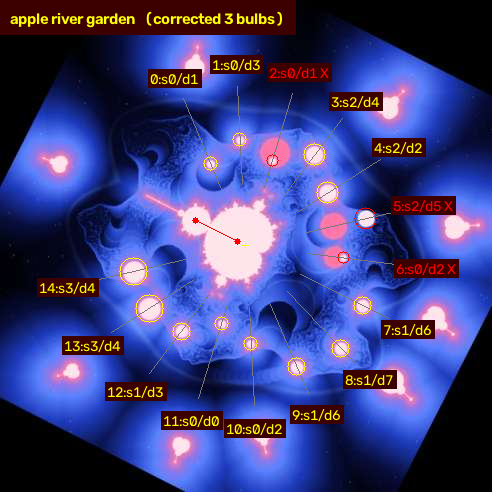
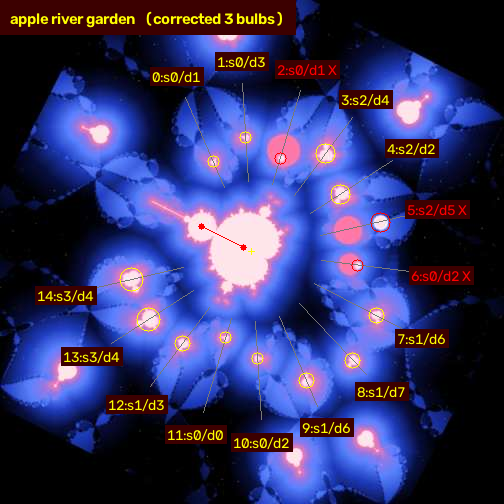
Baby Mandelbrots carry the data instead of discs
Each of the 15 satellites is now a real iterated Mandelbrot silhouette
(randomly rotated). The decoder reads the area-equivalent radius (4 levels,
2.5x apart in area) and the centroid orbit radius (8 levels); both are
rotation-independent. Spacing widened so neighbouring babies never touch.
METHOD.md: family-portrait story and the 'why not hide data in the fractal
itself' argument.

diff --git a/hidden_in_plain_sight/encoder.py b/hidden_in_plain_sight/encoder.py
@@ -340,17 +340,59 @@ def mandelbrot(size, U, ss):
     return interior, band
 
 
+_BABY = None
+
+
+def baby_sprite(px_per_unit=256):
+    """High-resolution silhouette of the Mandelbrot set (|z| < BABY_CLIP_R), plus its
+    area-equivalent radius and centroid in units. Computed once."""
+    global _BABY
+    if _BABY is not None:
+        return _BABY
+    n = int(2 * layout.BABY_CLIP_R * px_per_unit) + 2
+    c = n / 2.0
+    ys, xs = np.mgrid[0:n, 0:n].astype(np.float32)
+    C = ((ys - c) / px_per_unit + 1j * (xs - c) / px_per_unit).astype(np.complex64)   # re down, im right
+    z = np.zeros_like(C)
+    alive = np.ones(C.shape, bool)
+    with np.errstate(all="ignore"):
+        for _ in range(200):
+            z[alive] = z[alive] ** 2 + C[alive]
+            alive &= np.abs(z) <= 2
+    alive &= np.abs(C) < layout.BABY_CLIP_R
+    sprite = alive.astype(np.float32)
+    area_units = sprite.sum() / px_per_unit ** 2
+    r_eq_units = math.sqrt(area_units / math.pi)
+    cy = (ys * sprite).sum() / sprite.sum()
+    cx = (xs * sprite).sum() / sprite.sum()
+    _BABY = dict(img=sprite, ppu=px_per_unit, r_eq=r_eq_units, centroid=(cx, cy))
+    return _BABY
+
+
+def draw_baby(canvas, x, y, r_eq_px, angle_deg, value=1.0):
+    """Paste a baby Mandelbrot so that its centroid is at (x, y), with the given
+    area-equivalent radius in pixels and an arbitrary rotation."""
+    b = baby_sprite()
+    scale = r_eq_px / (b["r_eq"] * b["ppu"])             # canvas px per sprite px
+    M = cv2.getRotationMatrix2D(b["centroid"], angle_deg, scale)
+    M[0, 2] += x - b["centroid"][0]
+    M[1, 2] += y - b["centroid"][1]
+    w = cv2.warpAffine(b["img"], M, (canvas.shape[1], canvas.shape[0]), flags=cv2.INTER_AREA,
+                       borderMode=cv2.BORDER_CONSTANT, borderValue=0)
+    np.maximum(canvas, w * value, out=canvas)
+
+
 def body_mask(symbols, U, size, rng, decor):
-    """(satellite bulbs, decoration) in body colour as two mode-L images.
-    The Mandelbrot body is added separately."""
-    mb = Image.new("L", (size, size), 0)
-    db = ImageDraw.Draw(mb)
+    """(baby Mandelbrots carrying the data, decoration) in body colour as two mode-L images.
+    The mother Mandelbrot is added separately."""
     c = size / 2.0
+    babies = np.zeros((size, size), np.float32)
     for i, sym in enumerate(symbols):
         si, di = codec.symbol_to_glyph(sym)
         rr, dist, ang = layout.bulb_geometry(i, si, di)
         x, y = layout.polar(c, c, dist * U, ang)
-        db.ellipse([x - rr * U, y - rr * U, x + rr * U, y + rr * U], fill=255)
+        draw_baby(babies, x, y, rr * U, rng.uniform(0, 360))
+    mb = Image.fromarray((babies > 0.5).astype(np.uint8) * 255)
 
     m = Image.new("L", (size, size), 0)
     d = ImageDraw.Draw(m)

diff --git a/hidden_in_plain_sight/encoder_app/encoder.py b/hidden_in_plain_sight/encoder_app/encoder.py
@@ -340,17 +340,59 @@ def mandelbrot(size, U, ss):
     return interior, band
 
 
+_BABY = None
+
+
+def baby_sprite(px_per_unit=256):
+    """High-resolution silhouette of the Mandelbrot set (|z| < BABY_CLIP_R), plus its
+    area-equivalent radius and centroid in units. Computed once."""
+    global _BABY
+    if _BABY is not None:
+        return _BABY
+    n = int(2 * layout.BABY_CLIP_R * px_per_unit) + 2
+    c = n / 2.0
+    ys, xs = np.mgrid[0:n, 0:n].astype(np.float32)
+    C = ((ys - c) / px_per_unit + 1j * (xs - c) / px_per_unit).astype(np.complex64)   # re down, im right
+    z = np.zeros_like(C)
+    alive = np.ones(C.shape, bool)
+    with np.errstate(all="ignore"):
+        for _ in range(200):
+            z[alive] = z[alive] ** 2 + C[alive]
+            alive &= np.abs(z) <= 2
+    alive &= np.abs(C) < layout.BABY_CLIP_R
+    sprite = alive.astype(np.float32)
+    area_units = sprite.sum() / px_per_unit ** 2
+    r_eq_units = math.sqrt(area_units / math.pi)
+    cy = (ys * sprite).sum() / sprite.sum()
+    cx = (xs * sprite).sum() / sprite.sum()
+    _BABY = dict(img=sprite, ppu=px_per_unit, r_eq=r_eq_units, centroid=(cx, cy))
+    return _BABY
+
+
+def draw_baby(canvas, x, y, r_eq_px, angle_deg, value=1.0):
+    """Paste a baby Mandelbrot so that its centroid is at (x, y), with the given
+    area-equivalent radius in pixels and an arbitrary rotation."""
+    b = baby_sprite()
+    scale = r_eq_px / (b["r_eq"] * b["ppu"])             # canvas px per sprite px
+    M = cv2.getRotationMatrix2D(b["centroid"], angle_deg, scale)
+    M[0, 2] += x - b["centroid"][0]
+    M[1, 2] += y - b["centroid"][1]
+    w = cv2.warpAffine(b["img"], M, (canvas.shape[1], canvas.shape[0]), flags=cv2.INTER_AREA,
+                       borderMode=cv2.BORDER_CONSTANT, borderValue=0)
+    np.maximum(canvas, w * value, out=canvas)
+
+
 def body_mask(symbols, U, size, rng, decor):
-    """(satellite bulbs, decoration) in body colour as two mode-L images.
-    The Mandelbrot body is added separately."""
-    mb = Image.new("L", (size, size), 0)
-    db = ImageDraw.Draw(mb)
+    """(baby Mandelbrots carrying the data, decoration) in body colour as two mode-L images.
+    The mother Mandelbrot is added separately."""
     c = size / 2.0
+    babies = np.zeros((size, size), np.float32)
     for i, sym in enumerate(symbols):
         si, di = codec.symbol_to_glyph(sym)
         rr, dist, ang = layout.bulb_geometry(i, si, di)
         x, y = layout.polar(c, c, dist * U, ang)
-        db.ellipse([x - rr * U, y - rr * U, x + rr * U, y + rr * U], fill=255)
+        draw_baby(babies, x, y, rr * U, rng.uniform(0, 360))
+    mb = Image.fromarray((babies > 0.5).astype(np.uint8) * 255)
 
     m = Image.new("L", (size, size), 0)
     d = ImageDraw.Draw(m)

diff --git a/hidden_in_plain_sight/decoder_app/layout.py b/hidden_in_plain_sight/decoder_app/layout.py
@@ -10,8 +10,10 @@ Origin = complex 0. Image coordinates: re runs DOWN the image (antenna at the
 top), im runs to the right. Angles are degrees in image coordinates (x right,
 y down): -90 is straight up (the antenna), increasing angle is clockwise.
 
-The 15 data symbols are satellite bulbs: SIZE (4 levels, 2 bits) and DISTANCE
-from the origin (8 levels, 3 bits).
+The 15 data symbols are "baby" Mandelbrot sets orbiting the mother: each baby's
+SIZE (area-equivalent radius, 4 levels, 2 bits) and the DISTANCE of its centroid
+from the origin (8 levels, 3 bits) carry one 5-bit symbol. Babies may be rotated
+freely (art); size and centroid do not depend on rotation.
 """
 import math
 
@@ -30,11 +32,13 @@ INSCRIBED_R = 0.5033        # inscribed radius of the main body (d2/d1 = 0.489)
 N_DATA = 15
 SLOT_START = 40.0
 SLOT_STEP = 20.0
-SIZES = [0.07, 0.11, 0.15, 0.19]                                   # radius / U   (2 bits)
-DISTS = [1.45, 1.60, 1.75, 1.90, 2.05, 2.20, 2.35, 2.50]           # centre / U   (3 bits)
+SIZES = [0.06, 0.095, 0.13, 0.165]                                 # area-equivalent radius / U (2 bits)
+DISTS = [1.60, 1.75, 1.90, 2.05, 2.20, 2.35, 2.50, 2.65]           # centroid distance / U (3 bits)
+BABY_CLIP_R = 1.3          # a baby is the Mandelbrot set within this radius of its own origin
+BABY_EXTENT = 1.45         # max reach of a baby from its centroid, in units of its r_eq
 
-DECOR_MIN_R = 2.9          # decoration only outside this
-CANVAS_HALF = 4.4
+DECOR_MIN_R = 3.0          # decoration only outside this
+CANVAS_HALF = 4.5
 UP = -90.0
 
 

diff --git a/hidden_in_plain_sight/encoder_app/layout.py b/hidden_in_plain_sight/encoder_app/layout.py
@@ -10,8 +10,10 @@ Origin = complex 0. Image coordinates: re runs DOWN the image (antenna at the
 top), im runs to the right. Angles are degrees in image coordinates (x right,
 y down): -90 is straight up (the antenna), increasing angle is clockwise.
 
-The 15 data symbols are satellite bulbs: SIZE (4 levels, 2 bits) and DISTANCE
-from the origin (8 levels, 3 bits).
+The 15 data symbols are "baby" Mandelbrot sets orbiting the mother: each baby's
+SIZE (area-equivalent radius, 4 levels, 2 bits) and the DISTANCE of its centroid
+from the origin (8 levels, 3 bits) carry one 5-bit symbol. Babies may be rotated
+freely (art); size and centroid do not depend on rotation.
 """
 import math
 
@@ -30,11 +32,13 @@ INSCRIBED_R = 0.5033        # inscribed radius of the main body (d2/d1 = 0.489)
 N_DATA = 15
 SLOT_START = 40.0
 SLOT_STEP = 20.0
-SIZES = [0.07, 0.11, 0.15, 0.19]                                   # radius / U   (2 bits)
-DISTS = [1.45, 1.60, 1.75, 1.90, 2.05, 2.20, 2.35, 2.50]           # centre / U   (3 bits)
+SIZES = [0.06, 0.095, 0.13, 0.165]                                 # area-equivalent radius / U (2 bits)
+DISTS = [1.60, 1.75, 1.90, 2.05, 2.20, 2.35, 2.50, 2.65]           # centroid distance / U (3 bits)
+BABY_CLIP_R = 1.3          # a baby is the Mandelbrot set within this radius of its own origin
+BABY_EXTENT = 1.45         # max reach of a baby from its centroid, in units of its r_eq
 
-DECOR_MIN_R = 2.9          # decoration only outside this
-CANVAS_HALF = 4.4
+DECOR_MIN_R = 3.0          # decoration only outside this
+CANVAS_HALF = 4.5
 UP = -90.0
 
 

diff --git a/hidden_in_plain_sight/layout.py b/hidden_in_plain_sight/layout.py
@@ -10,8 +10,10 @@ Origin = complex 0. Image coordinates: re runs DOWN the image (antenna at the
 top), im runs to the right. Angles are degrees in image coordinates (x right,
 y down): -90 is straight up (the antenna), increasing angle is clockwise.
 
-The 15 data symbols are satellite bulbs: SIZE (4 levels, 2 bits) and DISTANCE
-from the origin (8 levels, 3 bits).
+The 15 data symbols are "baby" Mandelbrot sets orbiting the mother: each baby's
+SIZE (area-equivalent radius, 4 levels, 2 bits) and the DISTANCE of its centroid
+from the origin (8 levels, 3 bits) carry one 5-bit symbol. Babies may be rotated
+freely (art); size and centroid do not depend on rotation.
 """
 import math
 
@@ -30,11 +32,13 @@ INSCRIBED_R = 0.5033        # inscribed radius of the main body (d2/d1 = 0.489)
 N_DATA = 15
 SLOT_START = 40.0
 SLOT_STEP = 20.0
-SIZES = [0.07, 0.11, 0.15, 0.19]                                   # radius / U   (2 bits)
-DISTS = [1.45, 1.60, 1.75, 1.90, 2.05, 2.20, 2.35, 2.50]           # centre / U   (3 bits)
+SIZES = [0.06, 0.095, 0.13, 0.165]                                 # area-equivalent radius / U (2 bits)
+DISTS = [1.60, 1.75, 1.90, 2.05, 2.20, 2.35, 2.50, 2.65]           # centroid distance / U (3 bits)
+BABY_CLIP_R = 1.3          # a baby is the Mandelbrot set within this radius of its own origin
+BABY_EXTENT = 1.45         # max reach of a baby from its centroid, in units of its r_eq
 
-DECOR_MIN_R = 2.9          # decoration only outside this
-CANVAS_HALF = 4.4
+DECOR_MIN_R = 3.0          # decoration only outside this
+CANVAS_HALF = 4.5
 UP = -90.0
 
 

diff --git a/hidden_in_plain_sight/decoder.py b/hidden_in_plain_sight/decoder.py
@@ -157,8 +157,8 @@ def refine_radius(bgr, cx, cy, R0, stem_angle=None, polarity="dark"):
 # ---------------------------------------------------------------- bulbs
 def read_bulbs(bgr, polarity, cx, cy, R, rot, marker_label, stats, cents):
     """For each slot pick the dark blob sitting in that direction; size and distance -> symbol."""
-    min_area = 0.3 * math.pi * (layout.SIZES[0] * R) ** 2
-    max_area = 2.5 * math.pi * (layout.SIZES[-1] * R) ** 2
+    min_area = 0.35 * math.pi * (layout.SIZES[0] * R) ** 2
+    max_area = 2.0 * math.pi * (layout.SIZES[-1] * R) ** 2
     slots = []
     for i in range(layout.N_DATA):
         a = layout.data_angle(i) + rot
@@ -182,7 +182,7 @@ def read_bulbs(bgr, polarity, cx, cy, R, rot, marker_label, stats, cents):
             slots.append(dict(symbol=0, size=0, dist=0, ok=False, pos=layout.polar(cx, cy, 2.0 * R, a), r_px=0))
             continue
         area, x, y, dist = best
-        r_px = refine_radius(bgr, x, y, math.sqrt(area / math.pi), None, polarity)
+        r_px = math.sqrt(area / math.pi)          # area-equivalent radius (shape-independent)
         r = r_px / R
         si = int(np.argmin([abs(r - s) for s in layout.SIZES]))
         di = int(np.argmin([abs(dist - s) for s in layout.DISTS]))

diff --git a/hidden_in_plain_sight/decoder_app/decoder.py b/hidden_in_plain_sight/decoder_app/decoder.py
@@ -157,8 +157,8 @@ def refine_radius(bgr, cx, cy, R0, stem_angle=None, polarity="dark"):
 # ---------------------------------------------------------------- bulbs
 def read_bulbs(bgr, polarity, cx, cy, R, rot, marker_label, stats, cents):
     """For each slot pick the dark blob sitting in that direction; size and distance -> symbol."""
-    min_area = 0.3 * math.pi * (layout.SIZES[0] * R) ** 2
-    max_area = 2.5 * math.pi * (layout.SIZES[-1] * R) ** 2
+    min_area = 0.35 * math.pi * (layout.SIZES[0] * R) ** 2
+    max_area = 2.0 * math.pi * (layout.SIZES[-1] * R) ** 2
     slots = []
     for i in range(layout.N_DATA):
         a = layout.data_angle(i) + rot
@@ -182,7 +182,7 @@ def read_bulbs(bgr, polarity, cx, cy, R, rot, marker_label, stats, cents):
             slots.append(dict(symbol=0, size=0, dist=0, ok=False, pos=layout.polar(cx, cy, 2.0 * R, a), r_px=0))
             continue
         area, x, y, dist = best
-        r_px = refine_radius(bgr, x, y, math.sqrt(area / math.pi), None, polarity)
+        r_px = math.sqrt(area / math.pi)          # area-equivalent radius (shape-independent)
         r = r_px / R
         si = int(np.argmin([abs(r - s) for s in layout.SIZES]))
         di = int(np.argmin([abs(dist - s) for s in layout.DISTS]))

diff --git a/hidden_in_plain_sight/test.py b/hidden_in_plain_sight/test.py
@@ -51,7 +51,7 @@ def paint_slots(bgr, symbols, n, rng, style):
         si, di = codec.symbol_to_glyph(symbols[i])
         rr, dist, ang = layout.bulb_geometry(i, si, di)
         x, y = layout.polar(c, c, dist * R, ang)
-        cv2.circle(out, (int(round(x)), int(round(y))), int((rr + 0.08) * R), bg, -1, cv2.LINE_AA)
+        cv2.circle(out, (int(round(x)), int(round(y))), int((layout.BABY_EXTENT * rr + 0.06) * R), bg, -1, cv2.LINE_AA)
         wrong = rng.choice([s for s in range(32) if s != symbols[i]])
         si2, di2 = codec.symbol_to_glyph(wrong)
         rr2, dist2, _ = layout.bulb_geometry(i, si2, di2)

diff --git a/hidden_in_plain_sight/METHOD.md b/hidden_in_plain_sight/METHOD.md
@@ -1,8 +1,8 @@
 # How it works — "Hidden in Plain Sight" entry
 
-**One sentence:** the secret phrase becomes the *geometry* of a fractal: 15 glowing satellites
-around a real Mandelbrot set, where each satellite's size and distance from the centre spell
-one symbol, and everything else in the picture is a fractal seeded by the phrase itself.
+**One sentence:** a mother Mandelbrot set with 15 baby Mandelbrots orbiting it. The mother is
+the ruler and the compass; each baby's size and orbit radius spell one symbol of the message;
+everything else in the picture (colours, fractal texture, motion) is seeded by the phrase itself.
 
 ## Encoding (sender)
 
@@ -11,10 +11,11 @@ one symbol, and everything else in the picture is a fractal seeded by the phrase
 2. **Number → 9 symbols.** The 45 bits are cut into 9 symbols of 5 bits (values 0–31).
 3. **Error correction.** Reed-Solomon over GF(32) adds 6 parity symbols → 15 symbols.
    Any 3 of the 15 can be destroyed and the phrase still decodes.
-4. **Symbol → bulb.** Each symbol (0–31) becomes one black (or bright) satellite bulb:
-   - high 2 bits → bulb **size** (4 radii: 0.07, 0.11, 0.15, 0.19 Mandelbrot units)
-   - low 3 bits → bulb **distance** from the origin (8 radii: 1.45 … 2.50 units)
-   - the slot number (0–14) → the bulb's **direction** (20° apart, antenna side left free)
+4. **Symbol → baby.** Each symbol (0–31) becomes one baby Mandelbrot (a real, iterated
+   silhouette, rotated any way the art likes):
+   - high 2 bits → the baby's **size** (area-equivalent radius: 0.06, 0.095, 0.13, 0.165 units)
+   - low 3 bits → the baby's **orbit radius**, centroid distance from the origin (1.60 … 2.65 units)
+   - the slot number (0–14) → the baby's **direction** (20° apart, antenna side left free)
 5. **Marker.** The centre of the picture is a *real* Mandelbrot set, rendered by iteration
    with its antenna pointing up. It is the reference: the main cardioid and the period-2
    bulb are two blobs whose centroids are exactly 0.825 units apart along the antenna axis,
@@ -47,10 +48,11 @@ one symbol, and everything else in the picture is a fractal seeded by the phrase
    direction = rotation, and the complex origin is a fixed offset from the cardioid centroid.
 2. **(Candidates.)** The three biggest blobs are tried and the one that yields the most
    satellites wins, so a large black region of the background fractal can never fool it.
-3. **Read the bulbs.** For each of the 15 directions, take the blob sitting there.
-   Its radius (sub-pixel edge fit, same method as the main disc) → size → 2 bits;
-   its centroid distance → 3 bits.
-4. **Correct and translate.** Reed-Solomon fixes up to 3 wrong bulbs; 45 bits → 3 indices → 3 words.
+3. **Read the babies.** For each of the 15 directions, take the blob sitting there.
+   Its area → area-equivalent radius → size → 2 bits; its centroid distance → orbit → 3 bits.
+   Both are independent of the baby's rotation, and the four size levels differ by 2.5x in
+   area, so JPEG softening of the babies' fine bulbs does not matter.
+4. **Correct and translate.** Reed-Solomon fixes up to 3 wrong babies; 45 bits → 3 indices → 3 words.
 5. An overlay PNG shows every measurement and which bulbs were corrected.
 
 ## Why it is different (and easy to say on stage)
@@ -61,8 +63,12 @@ one symbol, and everything else in the picture is a fractal seeded by the phrase
   its own unique nebula — the picture *is* the message, not a wrapper around it.
 - **Robust by design.** Rotation and scale are undone by the marker; JPEG re-saving and
   3 vandalised bulbs are tolerated by the measurement margins and Reed-Solomon.
-- **Nothing machine-readable to the eye.** No grid, no modules, no quiet zone — just a
-  Mandelbrot-style composition. The bulbs look like what a Mandelbrot set naturally has.
+- **Nothing machine-readable to the eye.** No grid, no modules, no quiet zone — a Mandelbrot
+  family portrait. Nobody expects the babies' sizes and orbits to be a sentence.
+- **Why not hide the data in the fractal itself?** Because fractals are chaotic: a tiny
+  parameter change rewrites the whole shape, and recovering parameters from a rotated,
+  resized, re-compressed picture is hopeless. So the data lives in robust geometry
+  (areas and centroids) and the fractal is the disguise.
 
 ## Numbers (test.py, 200 random phrases per theme, 6 conditions each)
 
